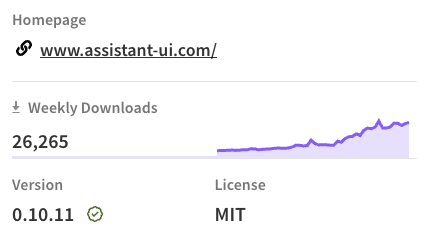
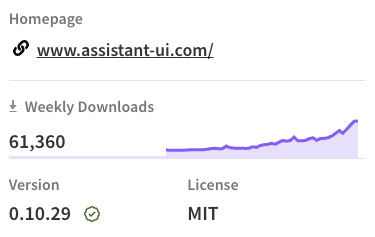
docs: Update README (#2222)
Update growth numbers and screenshot

diff --git a/README.md b/README.md
@@ -78,7 +78,7 @@ Sample customization to make a perplexity lookalike:
 
 Hundreds of projects use assistant-ui to build in-app AI assistants, including companies like LangChain, AthenaIntelligence, Browser Use, and more.
 
-With >100k monthly downloads, assistant-ui is the most popular UI library for building AI chat.
+With >200k monthly downloads, assistant-ui is the most popular UI library for building AI chat.
 
 <img src="https://raw.githubusercontent.com/assistant-ui/assistant-ui/main/.github/assets/growth.png" alt="Growth" style="max-width: 400px;">
 
